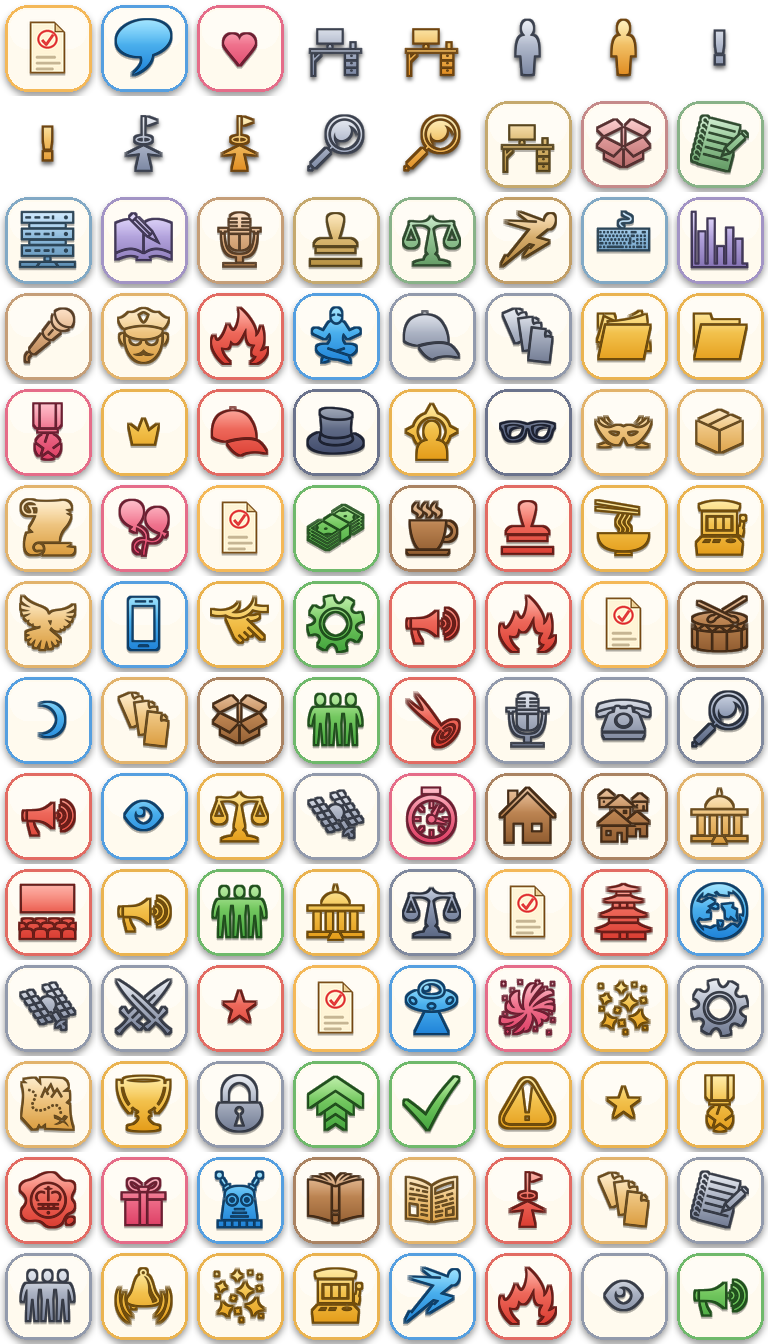
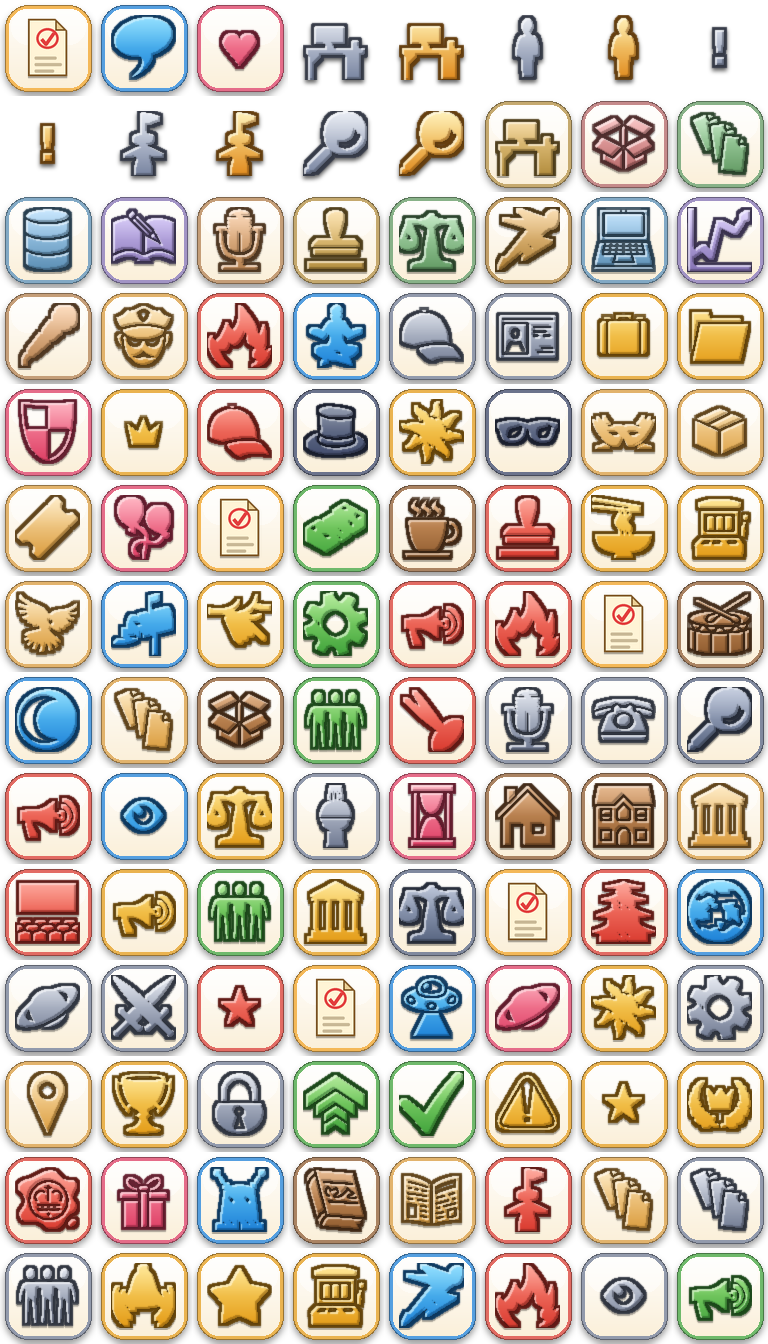
feat(art): 출시 기준 마감 — 굵은 베벨 스티커 아이콘, 레티나 캔버스, 월드·카드 폴리시
- build_icons_glossy.py: 가는 글리프 자동 굵히기(커버리지 기반), 3톤 베벨(좌상 밝음/우하 어두움), 굵은 외곽선·광택, 흰→크림 타일. 가는 글리프 28종을 굵은 game-icons로 교체(laptop·chart·database·ticket·id-card·greek-temple·ringed-planet 등)
- 레티나: 캔버스를 DPR(최대 2)배로 만들고 씬 카메라 줌으로 390x844 월드 좌표 유지(src/world/renderScale.js). 시트 스크롤은 베이스+오프셋, 포인터는 worldX/Y
- 월드: 시대 상징물 제거(그라데이션만), 서버 LED 위치 조정. 캐릭터 카드 아이콘 크기·간격, 아이콘 크기 CSS가 인라인을 이기도록 !important

Changed region(s): [[0.0, 0.0, 1.0, 1.0], [0.0312, 0.0, 0.0938, 0.0625]]

diff --git a/src/ui/dom-ui.css b/src/ui/dom-ui.css
@@ -665,7 +665,7 @@ body { background-color: var(--bg-deep); background-image: repeating-linear-grad
 
 /* ---------- 카툰 스킨 오버라이드 (토큰만으로 안 되는 형태 규칙) ---------- */
 .gp-chip { border-radius: 999px; padding: 4px 6px 4px 4px; gap: 5px; background: linear-gradient(180deg, #1b2244, #141a33); box-shadow: inset 0 2px 4px rgba(0,0,0,0.55), 0 2px 0 rgba(255,255,255,0.06); }
-.gp-chip__ic { width: 36px; height: 36px; margin: -6px 0; filter: drop-shadow(0 2px 2px rgba(0,0,0,0.35)); }
+.gp-chip__ic { width: 36px !important; height: 36px !important; margin: -6px 0; filter: drop-shadow(0 2px 2px rgba(0,0,0,0.35)); }
 .gp-chip__val { font-family: var(--f-num); font-size: 15px; color: #fff; text-shadow: 0 1px 2px rgba(0,0,0,0.6); letter-spacing: -0.2px; }
 .gp-chip--trust { flex-grow: 1.1; }
 .gp-chip--trust .gp-chip__val { font-size: 14px; }
@@ -688,14 +688,14 @@ body { background-color: var(--bg-deep); background-image: repeating-linear-grad
 .gp-qtybtn--on { background: linear-gradient(180deg, #ffe28a, #ffc53d); color: #4a2600; box-shadow: var(--px-out-sm), 0 2px 0 #b8720f; }
 .gp-tabs { gap: 6px; }
 .gp-tab { border-radius: var(--r); padding: 5px 4px 6px; font-family: var(--f-bold); font-size: 12px; background: var(--panel2); box-shadow: var(--px-out-sm), 0 3px 0 rgba(0,0,0,0.35); }
-.gp-tab__ic { width: 34px; height: 34px; margin: 0 auto 1px; }
+.gp-tab__ic { width: 34px !important; height: 34px !important; margin: 0 auto 1px; }
 .gp-tab--active { background: linear-gradient(180deg, #ffe28a 0%, #ffc53d 60%, #e39a16 100%); color: #4a2600; transform: translateY(-2px); box-shadow: var(--px-out-sm), 0 5px 0 #b8720f; }
 .gp-tab__dot { border-radius: 50%; width: 11px; height: 11px; background: #ff3b5c; border: 2px solid #141a33; box-shadow: 0 0 6px rgba(255,59,92,0.8); }
 .gp-card { border-radius: var(--r); box-shadow: var(--px-out-sm), 0 4px 10px rgba(0,0,0,0.3); }
-.gp-card__icon { width: 64px; height: 64px; filter: drop-shadow(0 3px 3px rgba(0,0,0,0.35)); }
+.gp-card__icon { width: 64px !important; height: 64px !important; filter: drop-shadow(0 3px 3px rgba(0,0,0,0.35)); }
 .gp-card__title { font-size: 16px; }
 .gp-fac { border-radius: var(--r); padding: 6px 2px 6px; background: var(--panel2); box-shadow: var(--px-out-sm), 0 3px 0 rgba(0,0,0,0.35); }
-.gp-fac__icon { width: 40px; height: 40px; }
+.gp-fac__icon { width: 40px !important; height: 40px !important; }
 .gp-fac__role { font-family: var(--f-bold); font-size: 12px; }
 .gp-fac--active { background: var(--panel3); box-shadow: var(--px-out-sm), 0 0 0 3px var(--gold), 0 4px 0 rgba(0,0,0,0.35); }
 .gp-fac--locked .gp-fac__icon { filter: grayscale(1) brightness(0.6); opacity: 0.6; }
@@ -715,13 +715,14 @@ body { background-color: var(--bg-deep); background-image: repeating-linear-grad
 .gp-map__x, .gp-dexdt__x, .gp-fever-recap__close { border-radius: 50%; background: linear-gradient(180deg, #ff8d9c, #e4455a); box-shadow: var(--px-out-sm), 0 3px 0 #8a1f30; }
 .gp-modal { box-shadow: var(--px-out), 0 0 0 3px var(--gold), 0 20px 40px rgba(0,0,0,0.6); }
 .gp-modal__badge { font-size: 0; }
-.gp-modal__badge .gp-ic { width: 84px; height: 84px; filter: drop-shadow(0 6px 8px rgba(0,0,0,0.45)); }
-.gp-gres__emoji .gp-ic { width: 96px; height: 96px; }
-.gp-char__ic .gp-ic { width: 64px; height: 64px; }
-.gp-cos__chip .gp-ic { width: 34px; height: 34px; }
-.gp-gacha__chip .gp-ic, .gp-gacha__eqname .gp-ic, .gp-g10__row .gp-ic { width: 22px; height: 22px; margin: -4px 2px -4px 0; }
-.gp-paneltitle .gp-ic, .gp-goal__section .gp-ic, .gp-gacha__hd .gp-ic, .gp-map__hd .gp-ic, .gp-map__era .gp-ic, .gp-set__row .gp-ic, .gp-rankbtn .gp-ic, .gp-mapnode__ic .gp-ic, .gp-opstatus__family .gp-ic, .gp-opstatus__pick .gp-ic, .gp-fever-recap__title .gp-ic { width: 26px; height: 26px; margin: -6px 4px -6px 0; }
-.gp-boss__icon .gp-ic, .gp-opcard__icon .gp-ic { width: 40px; height: 40px; }
+.gp-modal__badge .gp-ic { width: 84px !important; height: 84px !important; filter: drop-shadow(0 6px 8px rgba(0,0,0,0.45)); }
+.gp-gres__emoji .gp-ic { width: 96px !important; height: 96px !important; }
+.gp-char__ic { height: 60px; margin-bottom: 4px; }
+.gp-char__ic .gp-ic { width: 56px !important; height: 56px !important; }
+.gp-cos__chip .gp-ic { width: 34px !important; height: 34px !important; }
+.gp-gacha__chip .gp-ic, .gp-gacha__eqname .gp-ic, .gp-g10__row .gp-ic { width: 22px !important; height: 22px !important; margin: -4px 2px -4px 0; }
+.gp-paneltitle .gp-ic, .gp-goal__section .gp-ic, .gp-gacha__hd .gp-ic, .gp-map__hd .gp-ic, .gp-map__era .gp-ic, .gp-set__row .gp-ic, .gp-rankbtn .gp-ic, .gp-mapnode__ic .gp-ic, .gp-opstatus__family .gp-ic, .gp-opstatus__pick .gp-ic, .gp-fever-recap__title .gp-ic { width: 26px !important; height: 26px !important; margin: -6px 4px -6px 0; }
+.gp-boss__icon .gp-ic, .gp-opcard__icon .gp-ic { width: 40px !important; height: 40px !important; }
 .gp-boss__icon, .gp-opcard__icon { border: none; background: transparent; }
 .gp-ic { filter: drop-shadow(0 2px 2px rgba(0,0,0,0.3)); }
 .gp-bottom { border-top: 2px solid rgba(255,255,255,0.12); border-radius: var(--r-lg) var(--r-lg) 0 0; box-shadow: 0 -8px 24px rgba(0,0,0,0.45), inset 0 2px 0 rgba(255,255,255,0.08); }

diff --git a/src/world/WorldView.js b/src/world/WorldView.js
@@ -176,7 +176,8 @@ export class WorldView {
       const target = Math.max(0, WORLD_BOTTOM - e.detail.topGame + 6);
       if (Math.abs((this._camTarget ?? -1) - target) < 1) return;
       this._camTarget = target;
-      scene.tweens.add({ targets: scene.cameras.main, scrollY: target, duration: 180, ease: "Quad.easeOut" });
+      const baseY = scene.renderBase?.baseScrollY || 0;
+      scene.tweens.add({ targets: scene.cameras.main, scrollY: baseY + target, duration: 180, ease: "Quad.easeOut" });
     };
     document.addEventListener("gp:sheet-top", this._onSheetTop);
     // 패널이 먼저 브로드캐스트한 초기값을 즉시 반영(초기 이벤트 유실 방지) + 재브로드캐스트 요청
@@ -194,7 +195,7 @@ export class WorldView {
     // 캔버스에 도달한 빈 공간 탭만 득표로 처리(하단 DOM 패널은 자체 처리)
     this._onPointer = (pointer, currentlyOver) => {
       if (currentlyOver && currentlyOver.length) return;
-      gameState.processClick(pointer.x, pointer.y);
+      gameState.processClick(pointer.worldX, pointer.worldY);
       this._squishGov();
       this._punchNum();
       this._bumpCombo();
@@ -273,8 +274,11 @@ export class WorldView {
     g.fillStyle(0xffffff, 0.06);
     g.fillEllipse(GAME_W / 2, 120, 420, 180);
 
-    // ── 체제 상징물 ──
-    if (key === "force") {
+    // ── 체제 상징물 — 카툰 스킨에서는 그리지 않는다(배경은 시대 색 그라데이션만) ──
+    const DRAW_ERA_SYMBOLS = false;
+    if (!DRAW_ERA_SYMBOLS) {
+      // skip
+    } else if (key === "force") {
       // 서치라이트 빔 + 상단 경계선
       g.fillStyle(0xfff4cf, 0.05);
       g.fillTriangle(70, 0, 30, GROUND_Y, 150, GROUND_Y);
@@ -421,7 +425,7 @@ export class WorldView {
       .setVisible(false);
     // 서버실 위 LED 개표 현황
     this.boardText = this.scene.add
-      .text(this.board.x + 34, this.board.y - 56, "", { fontFamily: '"DoHyeon", "Jua", sans-serif', fontSize: "8px", color: "#2ce8f5", align: "center", backgroundColor: "rgba(20,18,28,0.6)", padding: { x: 3, y: 2 } })
+      .text(this.board.x - 46, this.board.y - 58, "", { fontFamily: '"DoHyeon", "Jua", sans-serif', fontSize: "8px", color: "#2ce8f5", align: "center", backgroundColor: "rgba(20,18,28,0.6)", padding: { x: 3, y: 2 } })
       .setOrigin(0.5)
       .setDepth(stationDepth(this.board.y) + 2);
   }

diff --git a/src/main.js b/src/main.js
@@ -97,11 +97,13 @@ const cloudSync = createDebounced(() => { try { saveCloud(); } catch {} }, 10_00
 gameState.on("persist", () => cloudSync.request());
 window.addEventListener("pagehide", () => cloudSync.flush());
 
+// 레티나 선명도: 캔버스 해상도를 DPR(최대 2)배로 올리고 각 씬 카메라가 줌으로 390x844 월드 좌표를 유지한다
+export const RENDER_SCALE = Math.min(2, Math.max(1, Math.round((window.devicePixelRatio || 1) * 2) / 2));
 const config = {
   type: Phaser.AUTO,
   parent: "game",
-  width: GAME_WIDTH,
-  height: GAME_HEIGHT,
+  width: GAME_WIDTH * RENDER_SCALE,
+  height: GAME_HEIGHT * RENDER_SCALE,
   backgroundColor: "#141a33",
   pixelArt: false,
   roundPixels: false,
@@ -112,7 +114,7 @@ const config = {
   },
   scene: [BootScene, PreloadScene, GameScene],
   callbacks: {
-    preBoot: (g) => g.registry.set("gameState", gameState),
+    preBoot: (g) => { g.registry.set("gameState", gameState); g.registry.set("renderScale", RENDER_SCALE); },
   },
 };
 

diff --git a/src/world/renderScale.js b/src/world/renderScale.js
@@ -1,0 +1,11 @@
+// 캔버스는 DPR배(main.js RENDER_SCALE), 월드 좌표는 390x844. 카메라 줌 z에서 월드 (0,0)이 화면 (0,0)에 오도록 스크롤 베이스를 둔다.
+import { GAME_HEIGHT, GAME_WIDTH } from "../config.js";
+
+export function applyRenderScale(scene) {
+  const z = scene.registry.get("renderScale") || 1;
+  const cam = scene.cameras.main;
+  cam.setZoom(z);
+  // Phaser는 줌을 뷰포트 중심 기준으로 적용: 보이는 월드 폭 = W*z/z = W. 중심을 (W/2, H/2)에 맞추면 월드 (0,0)=화면 (0,0).
+  cam.centerOn(GAME_WIDTH / 2, GAME_HEIGHT / 2);
+  return { zoom: z, baseScrollX: cam.scrollX, baseScrollY: cam.scrollY };
+}

diff --git a/src/scenes/PreloadScene.js b/src/scenes/PreloadScene.js
@@ -1,4 +1,5 @@
 import Phaser from "phaser";
+import { applyRenderScale } from "../world/renderScale.js";
 import { generatePlaceholders } from "../textures/devPlaceholders.js";
 import { buildGovTextures, buildPropTextures, buildWorkerTexture, buildCosmeticTextures } from "../world/dotChar.js";
 import { loadIconSheets, registerIconFrames } from "../assets/iconTextures.js";
@@ -10,6 +11,7 @@ export class PreloadScene extends Phaser.Scene {
   }
 
   preload() {
+    applyRenderScale(this);
     // 로딩 스크린(진행바) — 무거운 초기 에셋 로드 동안 검은화면/탭유실 방지
     const W = 390;
     const H = 844;

diff --git a/src/scenes/BootScene.js b/src/scenes/BootScene.js
@@ -1,4 +1,5 @@
 import Phaser from "phaser";
+import { applyRenderScale } from "../world/renderScale.js";
 import { GameState } from "../state/GameState.js";
 
 export class BootScene extends Phaser.Scene {
@@ -7,6 +8,7 @@ export class BootScene extends Phaser.Scene {
   }
 
   create() {
+    applyRenderScale(this);
     if (!this.registry.get("gameState")) this.registry.set("gameState", new GameState());
     this.scene.start("PreloadScene");
   }

diff --git a/src/scenes/GameScene.js b/src/scenes/GameScene.js
@@ -1,4 +1,5 @@
 import Phaser from "phaser";
+import { applyRenderScale } from "../world/renderScale.js";
 import { WorldView } from "../world/WorldView.js";
 
 export class GameScene extends Phaser.Scene {
@@ -7,6 +8,7 @@ export class GameScene extends Phaser.Scene {
   }
 
   create() {
+    this.renderBase = applyRenderScale(this);
     this.gameState = this.registry.get("gameState");
     this.world = new WorldView(this, this.gameState);
 

diff --git a/scripts/art/build_icons_glossy.py b/scripts/art/build_icons_glossy.py
@@ -19,7 +19,7 @@ import subprocess
 import tempfile
 from pathlib import Path
 
-from PIL import Image, ImageDraw, ImageFilter
+from PIL import Image, ImageChops, ImageDraw, ImageFilter
 
 ROOT = Path(__file__).resolve().parents[2]
 GI = ROOT / "assets" / "art-src" / "_packs" / "game-icons"
@@ -137,33 +137,61 @@ def sticker_tile(rim, S=CELL) -> Image.Image:
     ImageDraw.Draw(sh).rounded_rectangle([pad, pad + S * 0.05, S - pad, S - pad + S * 0.03], R, fill=(0, 0, 0, 110))
     im.alpha_composite(sh.filter(ImageFilter.GaussianBlur(S * 0.035)))
     d = ImageDraw.Draw(im)
-    d.rounded_rectangle([pad, pad, S - pad, S - pad], R, fill=(*rim, 255))
-    inner = pad + max(3, S // 28)
-    d.rounded_rectangle([inner, inner, S - inner, S - inner], R - 4, fill=(255, 250, 238, 255))
+    d.rounded_rectangle([pad, pad, S - pad, S - pad], R, fill=(*mix(rim, (0, 0, 0), 0.35), 255))
+    d.rounded_rectangle([pad + 1, pad + 1, S - pad - 1, S - pad - 1], R - 1, fill=(*rim, 255))
+    inner = pad + max(4, S // 22)
+    tile_mask = Image.new("L", (S, S), 0)
+    ImageDraw.Draw(tile_mask).rounded_rectangle([inner, inner, S - inner, S - inner], R - 5, fill=255)
+    im.paste(vgrad((S, S), (255, 255, 255), (250, 238, 214)), (0, 0), tile_mask)
     gloss = Image.new("RGBA", (S, S), (0, 0, 0, 0))
-    ImageDraw.Draw(gloss).rounded_rectangle([inner + 2, inner + 2, S - inner - 2, int(S * 0.5)], R - 6, fill=(255, 255, 255, 110))
+    ImageDraw.Draw(gloss).rounded_rectangle([inner + 2, inner + 2, S - inner - 2, int(S * 0.46)], R - 7, fill=(255, 255, 255, 120))
     im.alpha_composite(gloss)
     return im
 
 
+def _coverage(a: Image.Image) -> float:
+    bbox = a.getbbox()
+    if not bbox:
+        return 0.0
+    hist = a.crop(bbox).histogram()
+    solid = sum(hist[128:])
+    return solid / float((bbox[2] - bbox[0]) * (bbox[3] - bbox[1]))
+
+
 def colored_glyph(g: Image.Image, top, bottom) -> Image.Image:
-    """흰 글리프 알파 → 세로 그라데이션 채움 + 진한 외곽선 + 상단 하이라이트."""
+    """흰 글리프 알파 → 굵히기(가는 글리프) + 세로 그라데이션 + 3톤 베벨(좌상 밝음/우하 어두움) + 진한 외곽선 + 광택."""
     a = g.split()[3]
+    # 가는 글리프는 1~2px 굵혀 멀리서도 읽히게
+    cov = _coverage(a)
+    if cov < 0.30:
+        a = a.filter(ImageFilter.MaxFilter(5))
+    elif cov < 0.42:
+        a = a.filter(ImageFilter.MaxFilter(3))
+    a = a.point(lambda v: 255 if v > 110 else 0).filter(ImageFilter.GaussianBlur(0.6))
+    W, H = g.size
     grad = vgrad(g.size, top, bottom)
     body = Image.new("RGBA", g.size, (0, 0, 0, 0))
     body.paste(grad, (0, 0), a)
-    outline_mask = a.filter(ImageFilter.MaxFilter(5))
+    # 베벨: 알파를 우하/좌상으로 밀어 차이 영역을 밝게/어둡게
+    hi_mask = ImageChops.subtract(a, ImageChops.offset(a, 2, 2))
+    sh_mask = ImageChops.subtract(a, ImageChops.offset(a, -2, -2))
+    hi = Image.new("RGBA", g.size, (0, 0, 0, 0)); hi.paste((*mix(top, (255, 255, 255), 0.6), 200), (0, 0), hi_mask)
+    sh = Image.new("RGBA", g.size, (0, 0, 0, 0)); sh.paste((*mix(bottom, (0, 0, 0), 0.35), 170), (0, 0), sh_mask)
+    body.alpha_composite(sh)
+    body.alpha_composite(hi)
+    # 외곽선(굵고 진한 같은 계열)
+    outline_mask = a.filter(ImageFilter.MaxFilter(7))
     out = Image.new("RGBA", g.size, (0, 0, 0, 0))
-    out.paste((*mix(bottom, (0, 0, 0), 0.5), 255), (0, 0), outline_mask)
+    out.paste((*mix(bottom, (0, 0, 0), 0.55), 255), (0, 0), outline_mask)
     out.alpha_composite(body)
+    # 상단 광택(세로 페이드)
     hl = Image.new("RGBA", g.size, (0, 0, 0, 0))
-    hp = hl.load()
-    ap = a.load()
-    for y in range(g.height):
-        k = max(0.0, 1 - y / (g.height * 0.45))
-        for x in range(g.width):
+    hp = hl.load(); ap = a.load()
+    for y in range(H):
+        k = max(0.0, 1 - y / (H * 0.5))
+        for x in range(W):
             if ap[x, y] > 0:
-                hp[x, y] = (255, 255, 255, int(95 * k * ap[x, y] / 255))
+                hp[x, y] = (255, 255, 255, int(70 * k * ap[x, y] / 255))
     out.alpha_composite(hl)
     return out
 
@@ -215,7 +243,7 @@ def main():
     cache = {}
     for item in manifest["icons"]:
         name, src, color = item["name"], item["src"], item["color"]
-        gsize = int(CELL * 0.62)
+        gsize = int(CELL * 0.68)
         key = (src, gsize)
         if key not in cache:
             cache[key] = ballot_glyph(gsize) if src == "custom:ballot" else glyph(src[3:], gsize)

diff --git a/docs/superpowers/specs/2026-10-21-visual-and-systems-overhaul-design.md b/docs/superpowers/specs/2026-10-21-visual-and-systems-overhaul-design.md
@@ -226,6 +226,7 @@ P1 → P2 → P3 → P4 → P5 순서. P3와 P4는 독립이라 병렬 가능.
 - 월드: `scripts/art/build_world_vector.py` — Kenney Furniture Kit 아이소 렌더(CC0) 원본 합성, 방·공지판·투표지는 벡터 드로잉, 캐릭터는 Kenney Toon Characters(CC0; 국장=Male person 5단계 포즈/장식, 직원 4종 idle↔interact). 2x 소스 0.5배 표시.
 - 꾸미기 오버레이(픽셀)는 비표시. 레티나 선명도(캔버스 1x)는 후속.
 - 에셋 조사: `docs/superpowers/research/2026-10-21-cartoon-asset-sources.md`.
+- 출시 기준 마감(소유자: "무료 유지, 레퍼런스 없음, 출시용 기준으로"): 아이콘은 가는 글리프 굵히기(커버리지 기반 팽창)·3톤 베벨·굵은 외곽선·광택·흰→크림 타일로 재생성, 가는 글리프 28종은 굵은 game-icons로 교체. 캔버스는 DPR(최대 2)배 해상도 + 카메라 줌(`src/world/renderScale.js`)으로 레티나 선명. 배경 시대 상징물 제거.
 
 ## 7. 빌더에게 맡기는 것
 - 아틀라스 패킹 도구 선택(free-tex-packer-core 등 npm 내)과 webp 품질 값.
